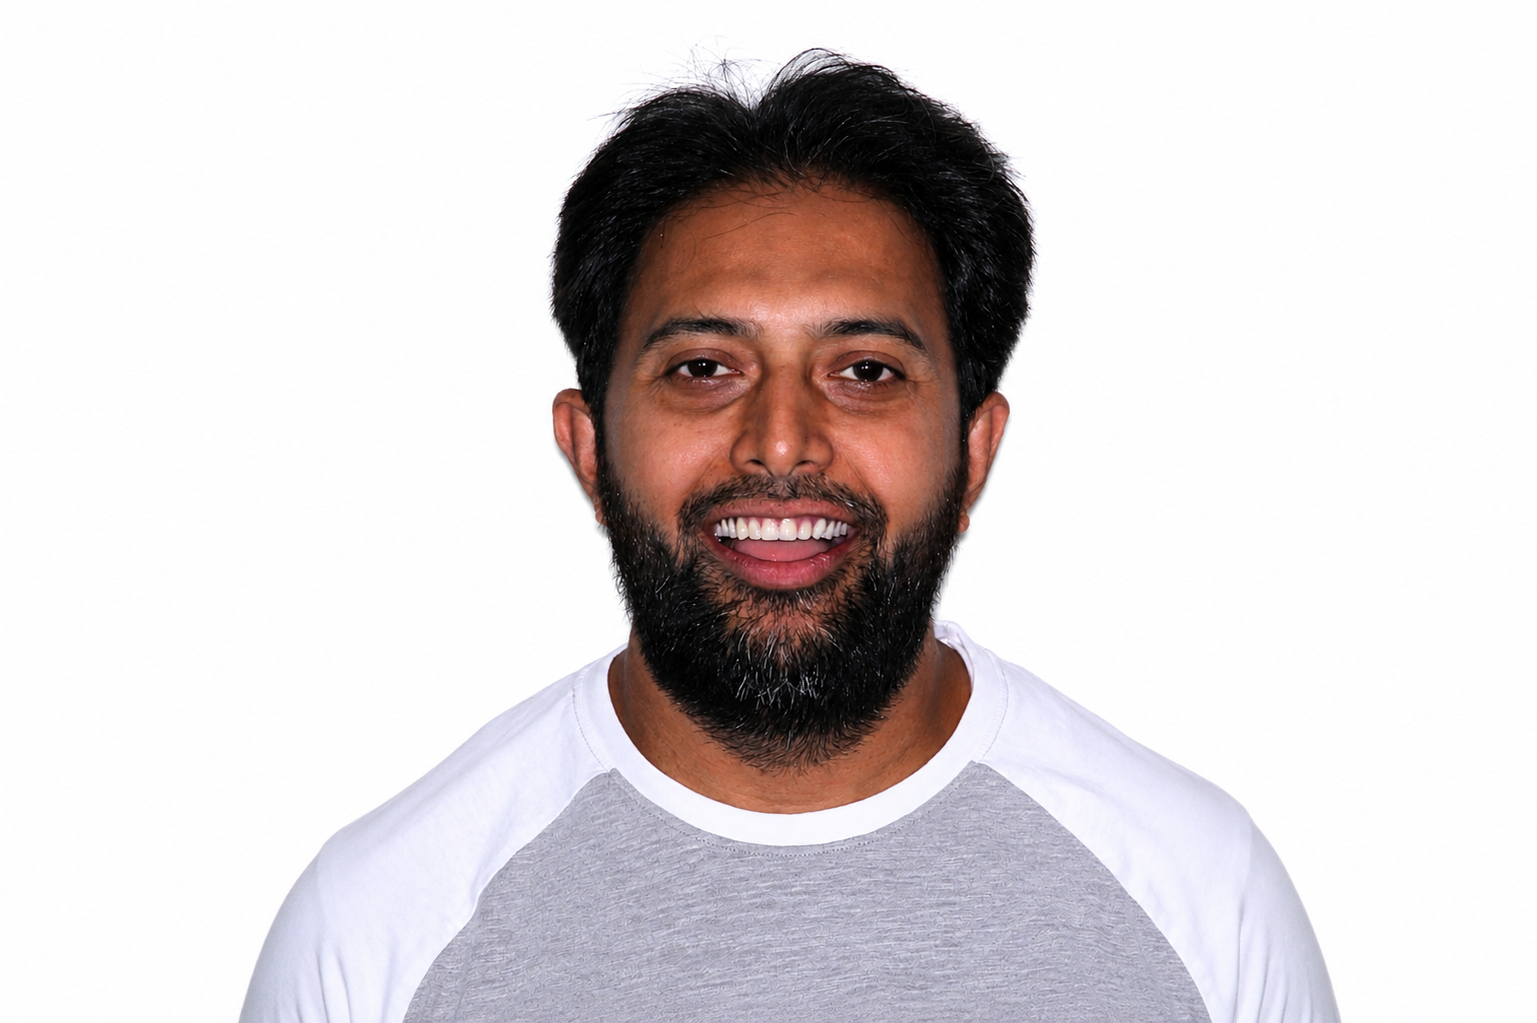
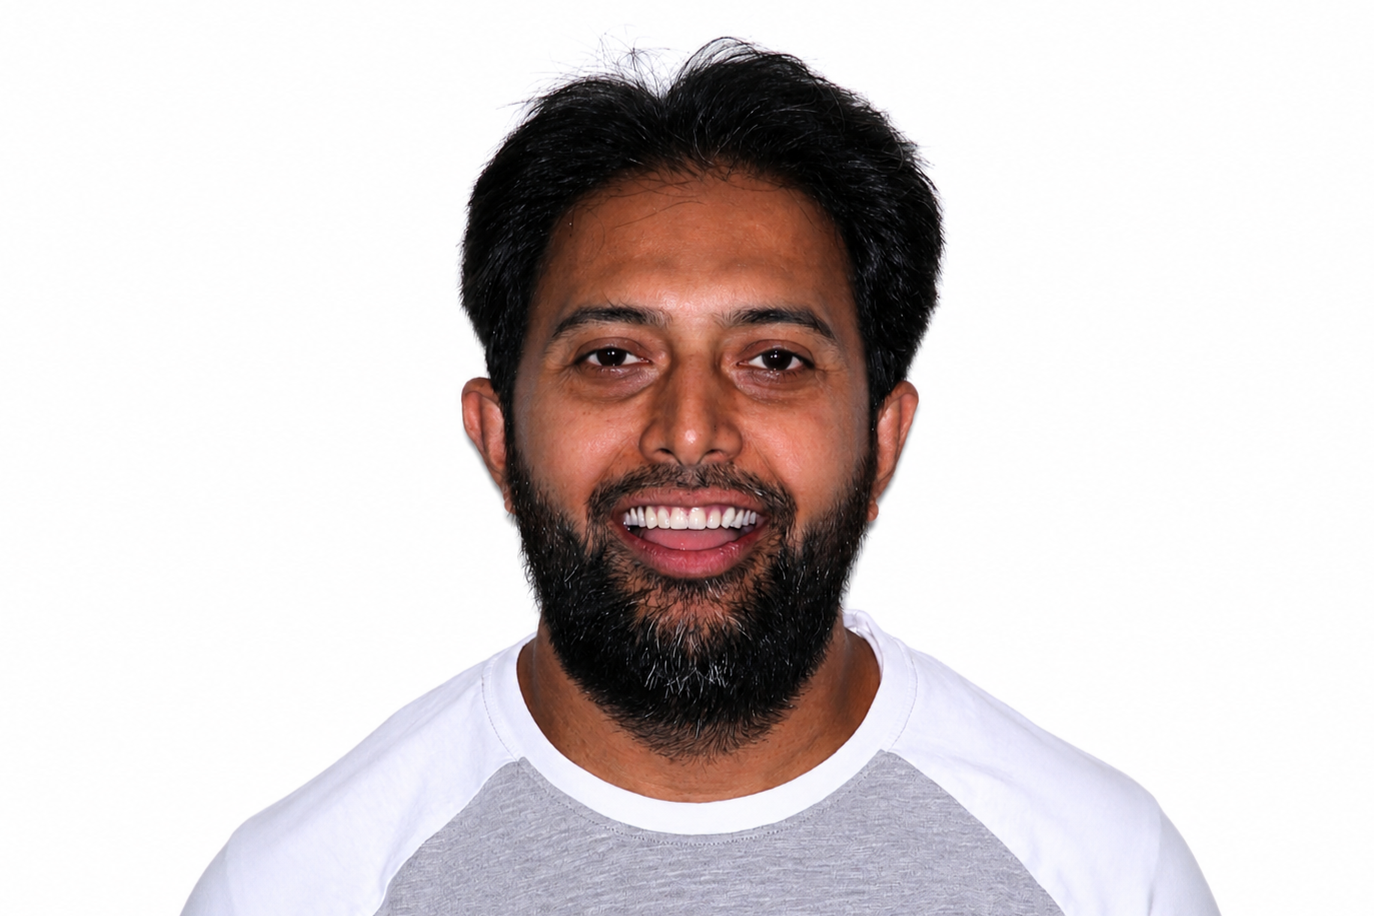
add before after and social link

Changed region(s): [[0.1834, 0.0306, 0.8865, 1.0], [0.1223, 0.8865, 0.214, 1.0], [0.6725, 0.9782, 0.7031, 1.0]]

diff --git a/muskan-dental/script.js b/muskan-dental/script.js
@@ -58,11 +58,11 @@ const PACKAGES = [
     { name: "Single Implant", sub: "One tooth replacement", price: "799", from: "Starting from", popular: true, features: ["Titanium implant fixture", "Custom abutment", "Premium porcelain crown", "Consultation & planning"] },
     { name: "All-on-4 Both Jaws", sub: "Complete arch restoration", price: "6,999", from: "Starting from", popular: false, features: ["4 titanium implants per arch", "Immediate fixed prosthesis", "3D guided surgery", "3D CBCT imaging", "Airport transfers included", "5-night luxury accommodation"] },
     { name: "All-on-4 Both Jaws", sub: "Complete arch restoration", price: "8,999", from: "Starting from", popular: true, features: ["4 titanium implants per arch", "Immediate fixed prosthesis", "3D guided surgery", "3D CBCT imaging", "Airport transfers included", "5-night luxury accommodation"] },
-    { name: "All-on-6 Both Jaws", sub: "Enhanced stability", price: "7,499", from: "Starting from", popular: false, features: ["6 titanium implants per arch", "Premium zirconia prosthesis", "3D guided surgery","3D CBCT imaging", "Airport transfers included", "7-night luxury accommodation", "VIP concierge service"] },
-    { name: "All-on-6 Both Jaws", sub: "Enhanced stability", price: "9,499", from: "Starting from", popular: true, features: ["6 titanium implants per arch", "Premium zirconia prosthesis", "3D guided surgery","3D CBCT imaging", "Airport transfers included", "7-night luxury accommodation", "VIP concierge service"] },
+    { name: "All-on-6 Both Jaws", sub: "Enhanced stability", price: "7,499", from: "Starting from", popular: false, features: ["6 titanium implants per arch", "Premium zirconia prosthesis", "3D guided surgery", "3D CBCT imaging", "Airport transfers included", "7-night luxury accommodation", "VIP concierge service"] },
+    { name: "All-on-6 Both Jaws", sub: "Enhanced stability", price: "9,499", from: "Starting from", popular: true, features: ["6 titanium implants per arch", "Premium zirconia prosthesis", "3D guided surgery", "3D CBCT imaging", "Airport transfers included", "7-night luxury accommodation", "VIP concierge service"] },
     { name: "Full Mouth Rehab", sub: "Complete restoration", price: "Custom", from: "Personalized quote", popular: false, features: ["Comprehensive assessment", "Multi-disciplinary treatment", "Premium materials throughout", "Extended luxury stay", "VIP concierge service", "Dedicated case manager"] },
     { name: "Full Mouth Rehab", sub: "Complete restoration", price: "Custom", from: "Personalized quote", popular: true, features: ["Comprehensive assessment", "Multi-disciplinary treatment", "Premium materials throughout", "Extended luxury stay", "VIP concierge service", "Dedicated case manager"] },
-    
+
 ];
 
 const GALLERY_ITEMS = [
@@ -85,6 +85,51 @@ const TEAM = [
     { name: "Dr. Tarandeep", role: "Implant Prosthodontist", creds: "Hollywood Smile Expert . 12+ yes", grad: "g-grad-2", image: "./assets/Dr. Tarandeep Team.jpeg" },
     // { name: "Dr. Michael Roberts", role: "Oral & Maxillofacial Surgeon", creds: "UCLA · Board-certified · 18+ yrs", grad: "g-grad-4" },
     // { name: "Dr. Sofia Romano", role: "Prosthodontist", creds: "Univ. of Bologna · 12+ yrs", grad: "g-grad-5" }
+];
+
+const BEFORE_AFTER_ITEMS = [
+    {
+        id: 1,
+        title: "All-on-4 Full Arch Restoration",
+        patient: "48-year-old patient from New York",
+        beforeImg: "assets/b&a/teeth-1-before.png",
+        afterImg: "assets/b&a/teeth-1-after.png"
+    },
+    {
+        id: 2,
+        title: "Porcelain Veneers Smile Makeover",
+        patient: "35-year-old patient from California",
+        beforeImg: "assets/b&a/teeth-2-before.png",
+        afterImg: "assets/b&a/teeth-2-after.png"
+    },
+    {
+        id: 3,
+        title: "All-on-6 Full Arch Rehabilitation",
+        patient: "52-year-old patient from London, UK",
+        beforeImg: "assets/b&a/3-before.png",
+        afterImg: "assets/b&a/3-after.png"
+    },
+    {
+        id: 4,
+        title: "Hollywood Smile & Ceramic Veneers",
+        patient: "29-year-old patient from Manchester, UK",
+        beforeImg: "assets/b&a/4-before.png",
+        afterImg: "assets/b&a/4-after.png"
+    },
+    {
+        id: 5,
+        title: "Zirconia Implant Transformation",
+        patient: "42-year-old patient from Toronto, Canada",
+        beforeImg: "assets/b&a/5-before.png",
+        afterImg: "assets/b&a/5-after.png"
+    },
+    {
+        id: 6,
+        title: "Full Mouth Aesthetic Rehabilitation",
+        patient: "61-year-old patient from Sydney, Australia",
+        beforeImg: "assets/b&a/6-before.png",
+        afterImg: "assets/b&a/6-after.png"
+    }
 ];
 
 /* ===== RENDER: TREATMENTS ===== */
@@ -308,17 +353,45 @@ function renderBlog() {
     }
 }
 
+/* ===== RENDER: BEFORE & AFTER ===== */
+function renderBeforeAfter() {
+    const container = document.getElementById('baContainer');
+    if (!container) return;
+
+    container.innerHTML = BEFORE_AFTER_ITEMS.map((item) => `
+        <div class="ba-slider-wrap" data-reveal-scale>
+            <div class="ba-slider" id="baSlider${item.id}">
+                <div class="ba-img ba-before" style="background:url('${item.beforeImg}') center center / cover no-repeat;">
+                    <div class="ba-label ba-label-before">Before</div>
+                </div>
+                <div class="ba-img ba-after" id="baAfter${item.id}" style="background:url('${item.afterImg}') center center / cover no-repeat;">
+                    <div class="ba-content"></div>
+                    <div class="ba-label ba-label-after">After</div>
+                </div>
+                <div class="ba-handle" id="baHandle${item.id}">
+                    <div class="ba-handle-circle"><i class="fa-solid fa-arrows-left-right"></i></div>
+                </div>
+            </div>
+            <p class="center mt-2" style="color:rgba(255,255,255,.7);font-size:.88rem;font-weight:500;">${item.title} <span style="opacity:.6;font-weight:300;">· ${item.patient}</span></p>
+        </div>
+    `).join('');
+
+    BEFORE_AFTER_ITEMS.forEach(item => {
+        initBASlider('baSlider' + item.id, 'baAfter' + item.id, 'baHandle' + item.id);
+    });
+}
+
 /* ===== BEFORE/AFTER SLIDER ===== */
 function initBASlider(sliderId, afterId, handleId) {
     const slider = document.getElementById(sliderId);
     const after = document.getElementById(afterId);
     const handle = document.getElementById(handleId);
-    if (!slider || !after) return;
+    if (!slider || !after || !handle) return;
 
     // Extract background image from after element (inline or computed)
     const bg = after.style.backgroundImage || window.getComputedStyle(after).backgroundImage;
-    let bgDiv = null;
-    if (bg && bg !== 'none') {
+    let bgDiv = after.querySelector('.ba-after-bg');
+    if (!bgDiv && bg && bg !== 'none') {
         bgDiv = document.createElement('div');
         bgDiv.className = 'ba-after-bg';
         bgDiv.style.backgroundImage = bg;
@@ -338,9 +411,14 @@ function initBASlider(sliderId, afterId, handleId) {
     }
 
     function updateDimensions() {
-        if (bgDiv) {
+        if (bgDiv && slider) {
             bgDiv.style.width = slider.offsetWidth + 'px';
         }
+    }
+
+    if (window.ResizeObserver) {
+        const ro = new ResizeObserver(() => updateDimensions());
+        ro.observe(slider);
     }
 
     let dragging = false;
@@ -864,12 +942,10 @@ function initCookieConsent() {
 /* ===== INIT ===== */
 function init() {
     setTimeout(() => { const p = document.getElementById('preloader'); if (p) p.classList.add('done'); }, 1000);
-    renderTreatments(); renderTestimonials(); renderFAQs(); renderPackages(); renderGallery(); renderTeam(); renderBlog();
+    renderTreatments(); renderTestimonials(); renderFAQs(); renderPackages(); renderGallery(); renderTeam(); renderBlog(); renderBeforeAfter();
     initNavScroll(); initModal(); initForms();
     initGalleryFilter(); initFAQFilter(); initBlogFilter();
     initBASlider('baSliderHome', 'baAfterHome', 'baHandleHome');
-    initBASlider('baSlider1', 'baAfter1', 'baHandle1');
-    initBASlider('baSlider2', 'baAfter2', 'baHandle2');
     observeReveals(); initPageTransition();
     initFirstVisitPopup();
     initVideoCards();

diff --git a/muskan-dental/before-after.html b/muskan-dental/before-after.html
@@ -93,40 +93,7 @@
                 <div class="sec-head center" data-reveal><span class="eyebrow">Interactive Comparison</span>
                     <h2>Drag to Compare</h2>
                 </div>
-                <div class="ba-slider-wrap" data-reveal-scale style="margin-bottom:3rem">
-                    <div class="ba-slider" id="baSlider1">
-                        <div class="ba-img ba-before">
-                            <div class="ba-label ba-label-before">Before</div>
-                        </div>
-                        <div class="ba-img ba-after" id="baAfter1">
-                            <div class="ba-content"></div>
-                            <div class="ba-label ba-label-after">After</div>
-                        </div>
-                        <div class="ba-handle" id="baHandle1">
-                            <div class="ba-handle-circle"><i class="fa-solid fa-arrows-left-right"></i></div>
-                        </div>
-                    </div>
-                    <p class="center mt-2" style="color:rgba(255,255,255,.5);font-size:.85rem">All-on-4 Full Arch
-                        Restoration · 48-year-old patient from New York</p>
-                </div>
-                <div class="ba-slider-wrap" data-reveal-scale>
-                    <div class="ba-slider" id="baSlider2">
-                        <div class="ba-img ba-before"
-                            style="background:url('assets/b&a/teeth-2-before.png') center center/cover no-repeat;">
-                            <div class="ba-label ba-label-before">Before</div>
-                        </div>
-                        <div class="ba-img ba-after" id="baAfter2"
-                            style="background:url('assets/b&a/teeth-2-after.png') center center/cover no-repeat;">>
-                            <div class="ba-content"></div>
-                            <div class="ba-label ba-label-after">After</div>
-                        </div>
-                        <div class="ba-handle" id="baHandle2">
-                            <div class="ba-handle-circle"><i class="fa-solid fa-arrows-left-right"></i></div>
-                        </div>
-                    </div>
-                    <p class="center mt-2" style="color:rgba(255,255,255,.5);font-size:.85rem">Porcelain Veneers Smile
-                        Makeover · 35-year-old patient from California</p>
-                </div>
+                <div id="baContainer" class="ba-grid"></div>
             </div>
         </section>
 

diff --git a/muskan-dental/contact.html b/muskan-dental/contact.html
@@ -165,8 +165,8 @@
                             </div>
                         </div>
                         <div class="social-links">
-                            <a href="#" aria-label="Instagram"><i class="fa-brands fa-instagram"></i></a>
-                            <a href="#" aria-label="Facebook"><i class="fa-brands fa-facebook"></i></a>
+                            <a href="https://www.instagram.com/dr.bhatti_dental_implantcentre" aria-label="Instagram" target="_blank"><i class="fa-brands fa-instagram"></i></a>
+                            <a href="https://www.facebook.com/Dr.KayyumBhatti" aria-label="Facebook" target="_blank"><i class="fa-brands fa-facebook"></i></a>
                             <a href="#" aria-label="Twitter"><i class="fa-brands fa-x-twitter"></i></a>
                             <a href="#" aria-label="YouTube"><i class="fa-brands fa-youtube"></i></a>
                             <a href="#" aria-label="LinkedIn"><i class="fa-brands fa-linkedin"></i></a>

diff --git a/muskan-dental/style.css b/muskan-dental/style.css
@@ -1358,6 +1358,27 @@ h3 {
   color: var(--green)
 }
 
+.ba-grid {
+  display: grid;
+  grid-template-columns: repeat(2, 1fr);
+  gap: 3rem 2rem;
+  max-width: 1200px;
+  margin: 0 auto;
+}
+
+.ba-grid .ba-slider-wrap {
+  max-width: 100%;
+  margin: 0;
+}
+
+@media(max-width:900px) {
+  .ba-grid {
+    grid-template-columns: 1fr;
+    gap: 2.5rem;
+    max-width: 700px;
+  }
+}
+
 .ba-slider-wrap {
   max-width: 900px;
   margin: 0 auto
